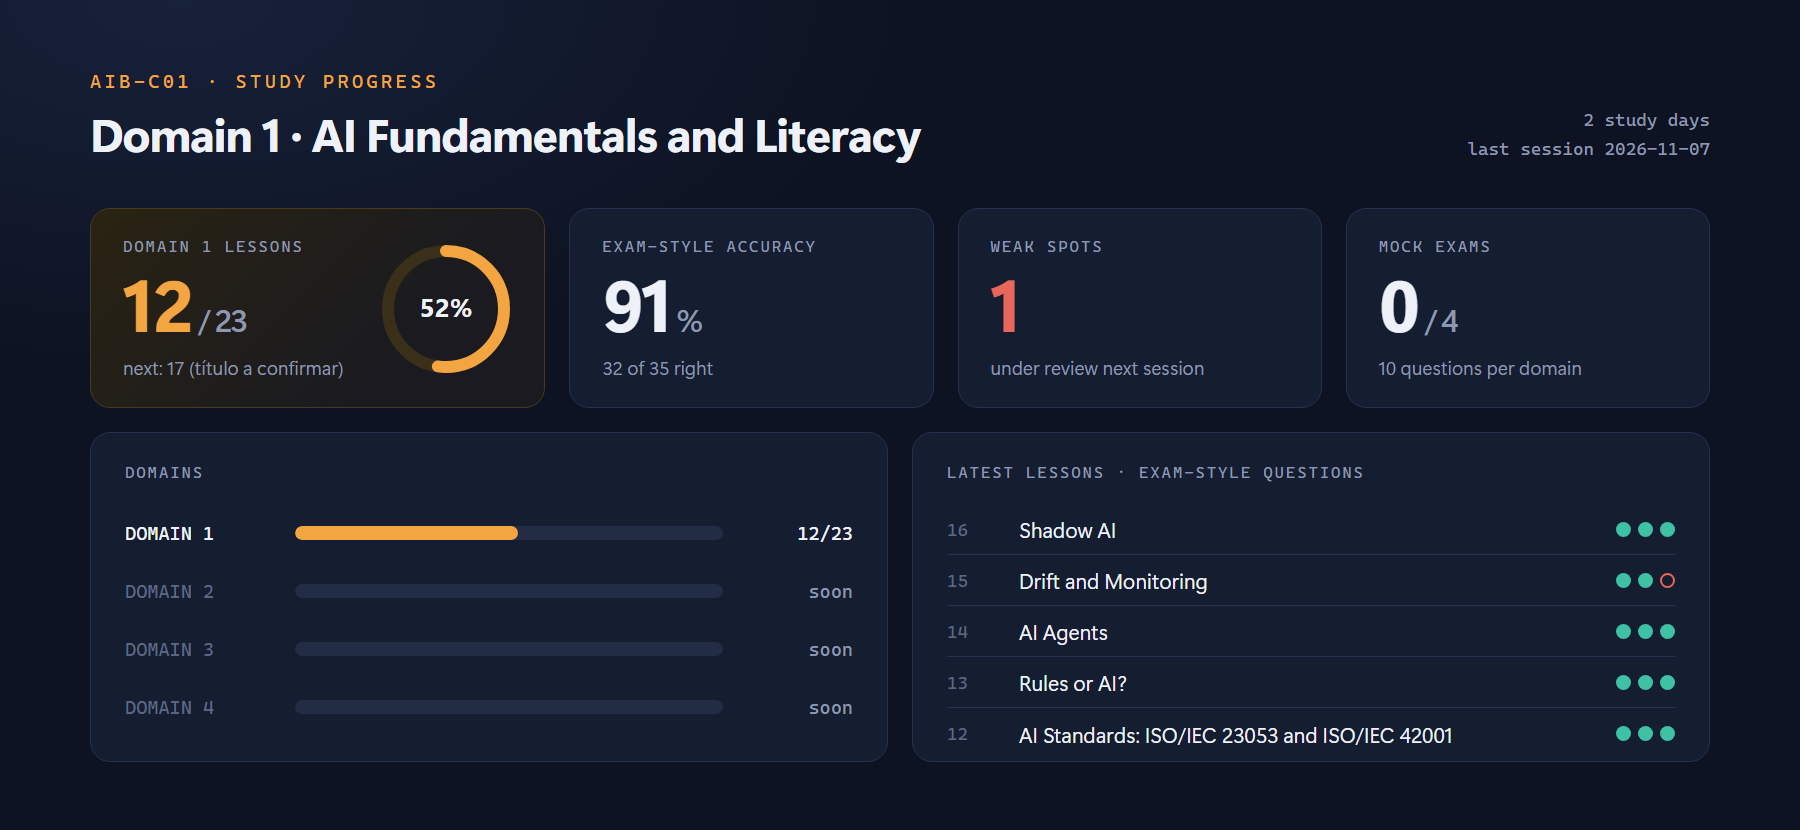
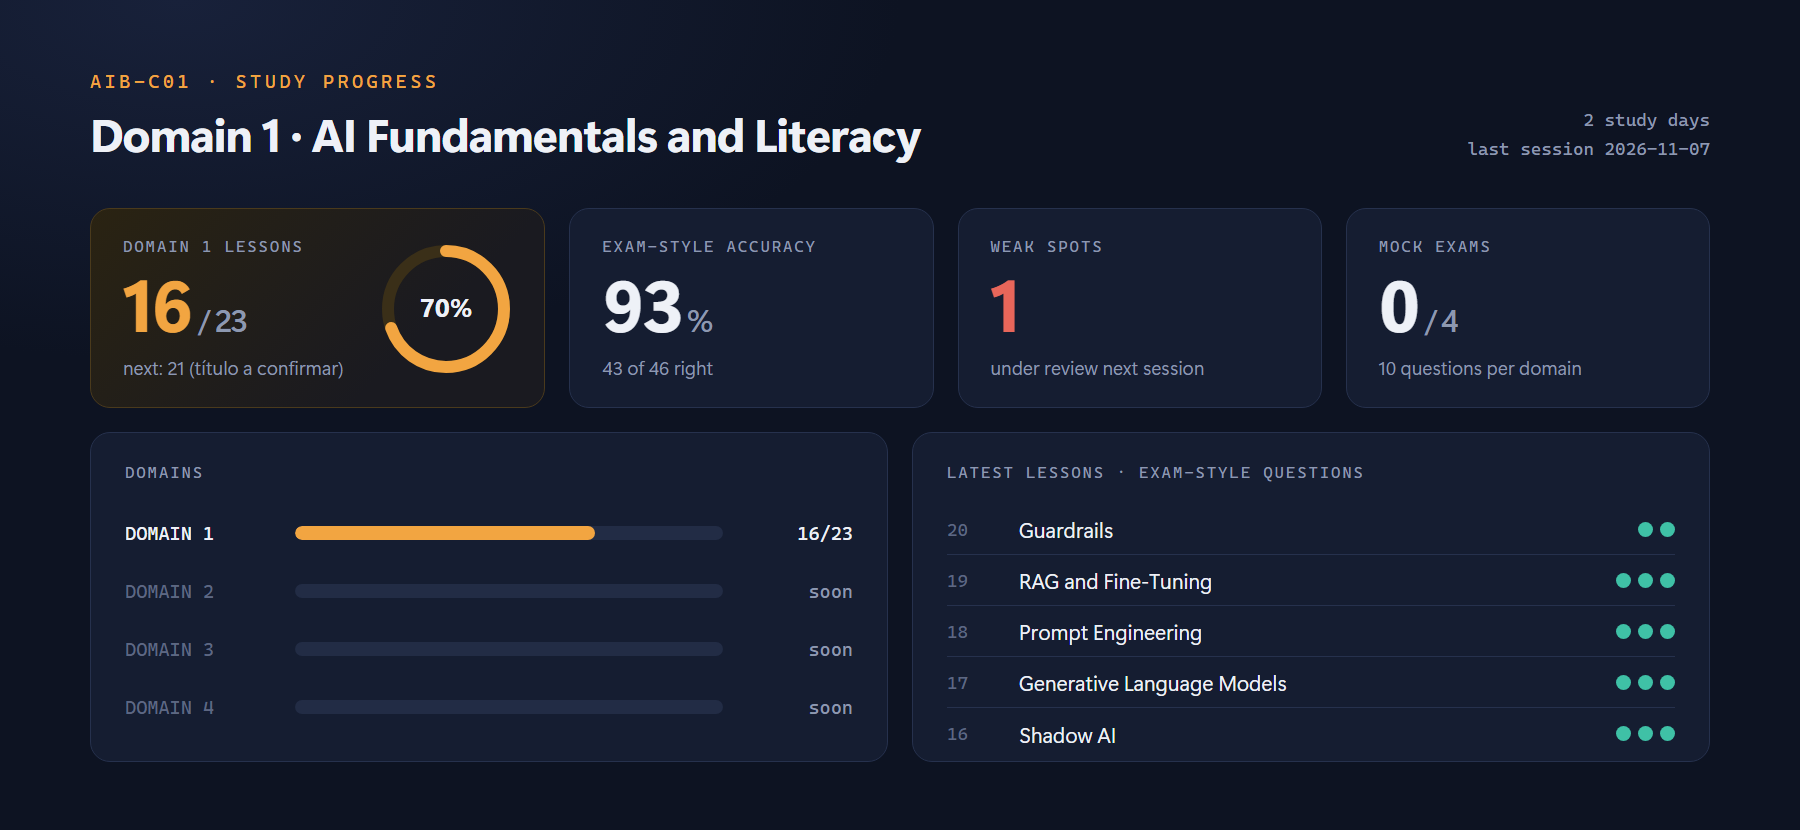
docs(progress): lessons 17 to 20

diff --git a/design/readme/data.js b/design/readme/data.js
@@ -3,19 +3,19 @@ window.DATA = {
   "updated": "2026-11-07",
   "started": "2026-11-06",
   "days": 2,
-  "lessonsDone": 13,
+  "lessonsDone": 17,
   "skipped": 2,
-  "right": 32,
-  "asked": 35,
-  "accuracy": 91,
+  "right": 43,
+  "asked": 46,
+  "accuracy": 93,
   "domains": [
     {
       "number": 1,
       "title": "AI Fundamentals and Literacy",
-      "done": 12,
+      "done": 16,
       "total": 23,
-      "right": 32,
-      "asked": 35
+      "right": 43,
+      "asked": 46
     },
     {
       "number": 2,
@@ -43,39 +43,39 @@ window.DATA = {
     }
   ],
   "current": 1,
-  "next": "17 (título a confirmar)",
+  "next": "21 (título a confirmar)",
   "recent": [
+    {
+      "number": 20,
+      "title": "Guardrails",
+      "state": "done",
+      "right": 2,
+      "asked": 2
+    },
+    {
+      "number": 19,
+      "title": "RAG and Fine-Tuning",
+      "state": "done",
+      "right": 3,
+      "asked": 3
+    },
+    {
+      "number": 18,
+      "title": "Prompt Engineering",
+      "state": "done",
+      "right": 3,
+      "asked": 3
+    },
+    {
+      "number": 17,
+      "title": "Generative Language Models",
+      "state": "done",
+      "right": 3,
+      "asked": 3
+    },
     {
       "number": 16,
       "title": "Shadow AI",
-      "state": "done",
-      "right": 3,
-      "asked": 3
-    },
-    {
-      "number": 15,
-      "title": "Drift and Monitoring",
-      "state": "done",
-      "right": 2,
-      "asked": 3
-    },
-    {
-      "number": 14,
-      "title": "AI Agents",
-      "state": "done",
-      "right": 3,
-      "asked": 3
-    },
-    {
-      "number": 13,
-      "title": "Rules or AI?",
-      "state": "done",
-      "right": 3,
-      "asked": 3
-    },
-    {
-      "number": 12,
-      "title": "AI Standards: ISO/IEC 23053 and ISO/IEC 42001",
       "state": "done",
       "right": 3,
       "asked": 3

diff --git a/README.md b/README.md
@@ -5,8 +5,8 @@
 
 <!-- badges:start -->
 [![Exam](https://img.shields.io/badge/exam-AIB--C01-1B2440?style=flat-square)](#the-brief)
-[![Domain](https://img.shields.io/badge/domain%201-12%2F23%20lessons-E0A13A?style=flat-square)](#progress)
-[![Accuracy](https://img.shields.io/badge/exam--style%20accuracy-91%25%20%2832%2F35%29-2E9E83?style=flat-square)](#progress)
+[![Domain](https://img.shields.io/badge/domain%201-16%2F23%20lessons-E0A13A?style=flat-square)](#progress)
+[![Accuracy](https://img.shields.io/badge/exam--style%20accuracy-93%25%20%2843%2F46%29-2E9E83?style=flat-square)](#progress)
 [![Mocks](https://img.shields.io/badge/mock%20exams-0%2F4-5F6073?style=flat-square)](#progress)
 [![License](https://img.shields.io/badge/license-proprietary-4A4E6D?style=flat-square)](LICENSE)
 <!-- badges:end -->
@@ -43,12 +43,12 @@ The course transcripts and slides stay on my machine: they belong to the course 
 <!-- progress:start -->
 | | Domain | Lessons | Exam-style | |
 |---|---|---|---|---|
-| 1 | AI Fundamentals and Literacy | 12/23 | 32/35 | ![in progress](https://img.shields.io/badge/-in%20progress-E0A13A?style=flat-square) |
+| 1 | AI Fundamentals and Literacy | 16/23 | 43/46 | ![in progress](https://img.shields.io/badge/-in%20progress-E0A13A?style=flat-square) |
 | 2 | _not reached yet_ | – | – | ![not started](https://img.shields.io/badge/-not%20started-5F6073?style=flat-square) |
 | 3 | _not reached yet_ | – | – | ![not started](https://img.shields.io/badge/-not%20started-5F6073?style=flat-square) |
 | 4 | _not reached yet_ | – | – | ![not started](https://img.shields.io/badge/-not%20started-5F6073?style=flat-square) |
 
-**Next up:** 17 (título a confirmar)
+**Next up:** 21 (título a confirmar)
 
 **Weak spots under review** (logged in Spanish, as studied):
 

diff --git a/progress.md b/progress.md
@@ -2,7 +2,7 @@
 
 ## Dónde estoy
 
-Próxima lección: 17 (título a confirmar)
+Próxima lección: 21 (título a confirmar)
 
 ## Temario
 
@@ -27,6 +27,10 @@ Próxima lección: 17 (título a confirmar)
 - [x] 14. AI Agents (3/3)
 - [x] 15. Drift and Monitoring (2/3)
 - [x] 16. Shadow AI (3/3)
+- [x] 17. Generative Language Models (3/3)
+- [x] 18. Prompt Engineering (3/3)
+- [x] 19. RAG and Fine-Tuning (3/3)
+- [x] 20. Guardrails (2/2)
 - El resto se suma a medida que avanzamos.
 
 ## Puntos flojos
@@ -51,3 +55,7 @@ Ninguno todavía.
 - 2026-11-07: lección 14, 3/3 (agent = actúa solo, multi-step, sin persona en cada paso; lenguaje natural, RAG y foundation model no lo hacen agent).
 - 2026-11-07: lección 15, 2/3 (falló bias drift vs data drift, la sacó con pista; drift no tira errores, AI es operating commitment).
 - 2026-11-07: lección 16, 3/3 (transparent tool classification en 3 estados + request route; bloquear, capacitar o aprobar por gerente fallan; riesgo de datos e IP).
+- 2026-11-07: lección 17, 3/3 (LLM non-deterministic: próxima palabra por probabilidad; texto e imagen; resultado idéntico exigido = reglas).
+- 2026-11-07: lección 18, 3/3 (prompt engineering = task, context, examples, material; 4 principios; no cambia el modelo y es lo más barato).
+- 2026-11-07: lección 19, 3/3 (knowledge nuevo = RAG/grounding, behavior nuevo = fine-tuning; palancas por costo: prompt → RAG → fine-tuning; foundation model ⊃ LLM).
+- 2026-11-07: lección 20, 2/2 (guardrail filtra entrada y salida: temas, contenido dañino, datos sensibles, prompt injection; no agrega datos ni arregla formato; uno sirve para cualquier modelo).
